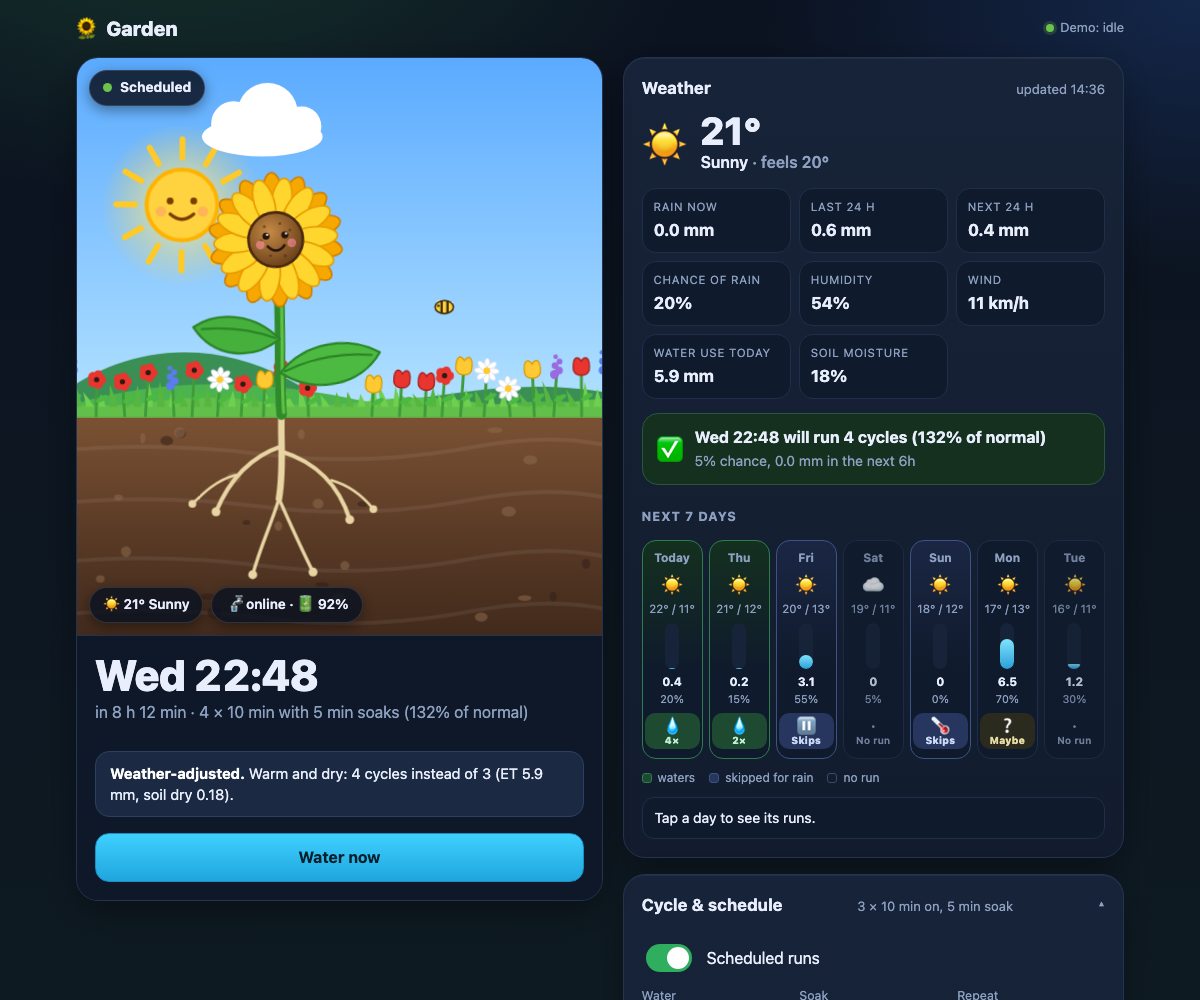
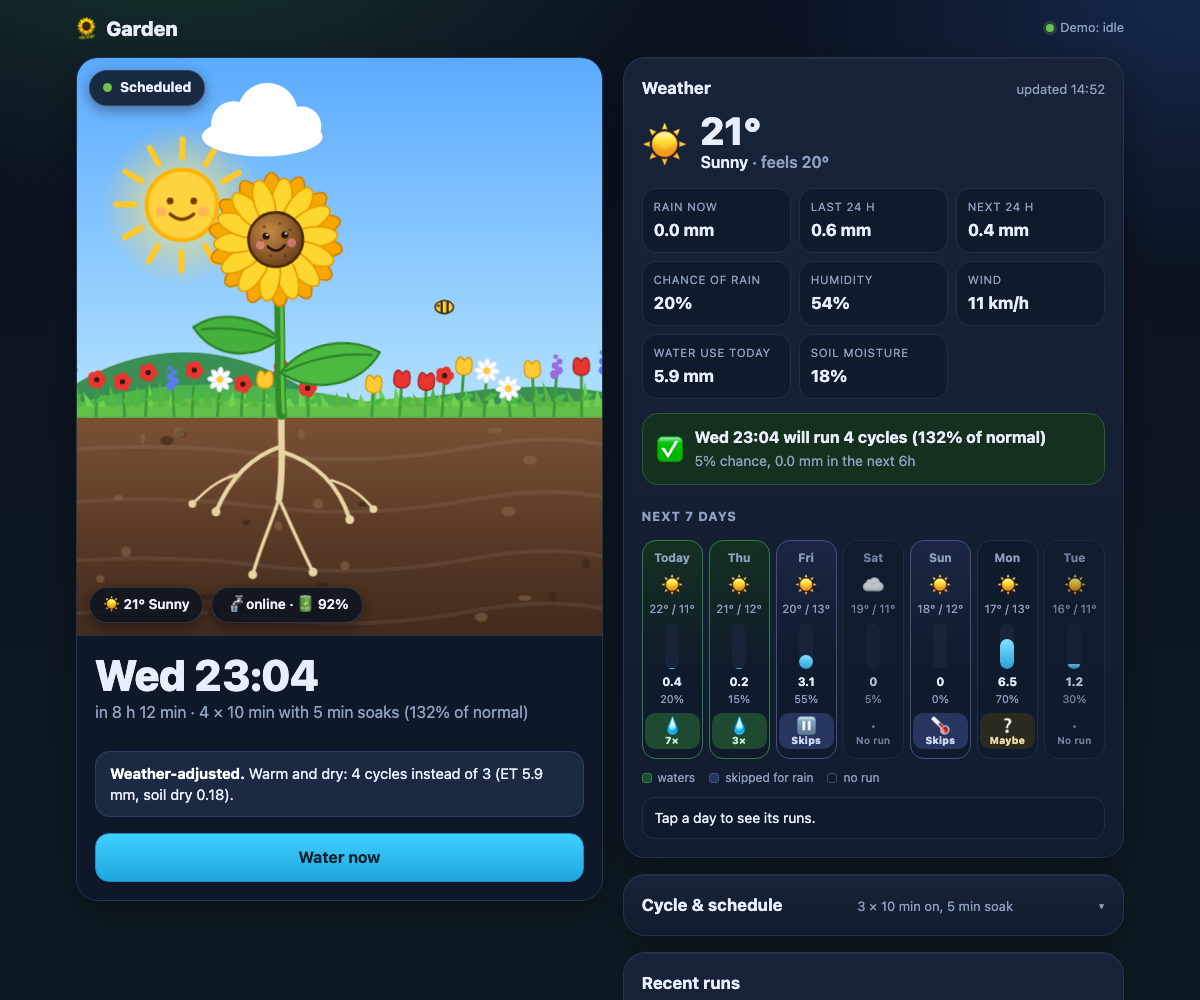
feat(schedule): ✨ start before or after sunset
A start time can now be relative to sunset (before or after) as well as
sunrise, so a day can have a sunrise run and a sunset run. The UI row has
four options. Demo data and screenshots updated.

diff --git a/worker/public/app.js b/worker/public/app.js
@@ -121,7 +121,7 @@ const minutesLabel = (m) => `${Math.round(m * 10) / 10} min`;
 
 function demoData(name) {
   const now = Date.now();
-  const config = { enabled: true, onMinutes: 10, soakMinutes: 5, cycles: 3, schedules: [{ days: [0, 1, 2, 3, 4, 5, 6], at: "dawn", time: "00:00", beforeSunriseMin: 30 }], rain: { enabled: true, probabilityPct: 50, mm: 1, lookaheadHours: 6 },
+  const config = { enabled: true, onMinutes: 10, soakMinutes: 5, cycles: 3, schedules: [{ days: [0, 1, 2, 3, 4, 5, 6], at: "dawn", time: "00:00", beforeSunriseMin: 30 }, { days: [0, 1, 2, 3, 4, 5, 6], at: "dusk", time: "00:00", afterSunsetMin: -30 }], rain: { enabled: true, probabilityPct: 50, mm: 1, lookaheadHours: 6 },
     smart: { enabled: true, referenceEtMm: 4.5, cropFactor: 1, minPercent: 25, maxPercent: 150, soilDryBelow: 0.2, soilWetAbove: 0.35, wind: { enabled: true, maxKmh: 30 }, frost: { enabled: true, belowC: 2 } } };
   const idle = { phase: "idle", cycle: 0, cycles: 0, onSeconds: 0, soakSeconds: 0, phaseStartedAt: 0, phaseEndsAt: 0 };
   const running = (phase, left) => ({ phase, cycle: 2, cycles: 3, onSeconds: 600, soakSeconds: 300, phaseStartedAt: now - ((phase === "watering" ? 600 : 300) - left) * 1000, phaseEndsAt: now + left * 1000 });
@@ -136,8 +136,8 @@ function demoData(name) {
   const dry = "5% chance, 0.0 mm in the next 6h";
   const wet = "rain likely: 78% chance, 4.0 mm in the next 6h";
   const demoRuns = [
-    () => rain ? run(0, "skip", wet) : [{ at: at(0), state: "will-run", reason: dry, cycles: 4, percent: 132, scaling: "Warm and dry: 4 cycles instead of 3 (ET 5.9 mm, soil dry 0.18)." }],
-    () => rain ? run(1, "skip", wet) : [{ at: at(1), state: "will-run", reason: dry, cycles: 2, percent: 62, scaling: "Cool day: 2 cycles instead of 3 (ET 2.8 mm, soil damp 0.27)." }],
+    () => rain ? run(0, "skip", wet) : [{ at: at(0), state: "will-run", reason: dry, cycles: 4, percent: 132, scaling: "Warm and dry: 4 cycles instead of 3 (ET 5.9 mm, soil dry 0.18)." }, { at: at(0) + 11 * 3600000, state: "will-run", reason: dry, cycles: 3, percent: 100, scaling: "Typical (ET 4.5 mm), soil dry (0.20): 100% of normal, 3 of 3 cycles." }],
+    () => rain ? run(1, "skip", wet) : [{ at: at(1), state: "will-run", reason: dry, cycles: 2, percent: 62, scaling: "Cool day: 2 cycles instead of 3 (ET 2.8 mm, soil damp 0.27)." }, { at: at(1) + 11 * 3600000, state: "will-run", reason: dry, cycles: 1, percent: 33, scaling: "Cool day: 1 cycle instead of 3 (ET 2.8 mm, soil damp 0.27)." }],
     () => run(2, "skip", wet),
     () => [],
     () => [{ at: at(4), state: "skip-weather", reason: "Soil is wet (0.38 m³/m³), so no watering is needed. Weather: low (ET 1.9 mm)." }],
@@ -402,22 +402,31 @@ function renderSchedules() {
   schedules.forEach((s, i) => {
     const row = document.createElement("div");
     row.className = "sched";
+    // four ways to say when: a clock time, before sunrise, before sunset, after sunset
+    const kindOf = (e) => (e.at === "dawn" ? "dawn" : e.at === "dusk" ? ((e.afterSunsetMin ?? 0) < 0 ? "dusk-before" : "dusk-after") : "clock");
+    const minutesOf = (e) => (e.at === "dawn" ? e.beforeSunriseMin : Math.abs(e.afterSunsetMin ?? 30)) ?? 30;
+    const setSun = (e, kindName, min) => {
+      delete e.beforeSunriseMin; delete e.afterSunsetMin;
+      if (kindName === "clock") { e.at = "clock"; return; }
+      if (kindName === "dawn") { e.at = "dawn"; e.beforeSunriseMin = min; return; }
+      e.at = "dusk"; e.afterSunsetMin = kindName === "dusk-before" ? -min : min;
+    };
     const kind = document.createElement("select");
-    kind.setAttribute("aria-label", "Start at a time or before sunrise");
+    kind.setAttribute("aria-label", "When to start: a time, or relative to sunrise or sunset");
     kind.className = "kind";
-    kind.append(new Option("At time", "clock"), new Option("Before sunrise", "dawn"));
-    kind.value = s.at ?? "clock";
-    kind.onchange = () => { s.at = kind.value; if (s.at === "dawn") s.beforeSunriseMin ??= 30; renderSchedules(); };
+    kind.append(new Option("At time", "clock"), new Option("Before sunrise", "dawn"), new Option("Before sunset", "dusk-before"), new Option("After sunset", "dusk-after"));
+    kind.value = kindOf(s);
+    kind.onchange = () => { setSun(s, kind.value, minutesOf(s)); renderSchedules(); };
     const time = Object.assign(document.createElement("input"), { type: "time", value: s.time });
     time.setAttribute("aria-label", "Start time");
     time.onchange = () => (s.time = time.value);
     const lead = document.createElement("div");
     lead.className = "num lead";
-    const mins = Object.assign(document.createElement("input"), { type: "number", min: 0, max: 180, inputmode: "numeric", value: s.beforeSunriseMin ?? 30 });
-    mins.setAttribute("aria-label", "Minutes before sunrise");
-    mins.onchange = () => (s.beforeSunriseMin = Number(mins.value));
-    lead.append(mins, Object.assign(document.createElement("em"), { textContent: "min before" }));
-    const when = s.at === "dawn" ? lead : time;
+    const mins = Object.assign(document.createElement("input"), { type: "number", min: 0, max: 180, inputmode: "numeric", value: minutesOf(s) });
+    mins.setAttribute("aria-label", "Minutes from sunrise or sunset");
+    mins.onchange = () => setSun(s, kindOf(s), Number(mins.value));
+    lead.append(mins, Object.assign(document.createElement("em"), { textContent: kindOf(s) === "dusk-after" ? "min after" : "min before" }));
+    const when = s.at === "dawn" || s.at === "dusk" ? lead : time;
     const chips = document.createElement("div");
     chips.className = "chips";
     DAYS.forEach((name, d) => {

diff --git a/worker/src/plan.ts b/worker/src/plan.ts
@@ -4,9 +4,10 @@ import { sunTimes } from "./sun";
 
 export interface ScheduleEntry {
   days: number[]; // 0 = Sunday ... 6 = Saturday
-  at?: "clock" | "dawn"; // missing means clock, so configs saved before dawn starts existed still work
-  time: string; // "HH:MM" in the configured timezone (ignored for dawn)
+  at?: "clock" | "dawn" | "dusk"; // missing means clock, so configs saved before sun-relative starts existed still work
+  time: string; // "HH:MM" in the configured timezone (ignored for dawn and dusk)
   beforeSunriseMin?: number; // for dawn: how long before sunrise to start
+  afterSunsetMin?: number; // for dusk: minutes after sunset to start, negative for before
 }
 
 export interface RainConfig {
@@ -120,9 +121,10 @@ export function validateConfig(input: unknown): Config {
   const schedules = c.schedules;
   if (!Array.isArray(schedules) || schedules.length > 20) throw new Error("schedules must be a list of up to 20 entries");
   for (const s of schedules) {
-    if (s.at !== "clock" && s.at !== "dawn") throw new Error(`bad schedule type: ${s.at}`);
+    if (s.at !== "clock" && s.at !== "dawn" && s.at !== "dusk") throw new Error(`bad schedule type: ${s.at}`);
     if (s.at === "clock" && !/^([01]\d|2[0-3]):[0-5]\d$/.test(s.time)) throw new Error(`bad schedule time: ${s.time}`);
     if (s.at === "dawn") num(s.beforeSunriseMin, "schedule beforeSunriseMin", 0, 180);
+    if (s.at === "dusk") num(s.afterSunsetMin, "schedule afterSunsetMin", -180, 180);
     if (!Array.isArray(s.days) || s.days.some((d) => !Number.isInteger(d) || d < 0 || d > 6)) {
       throw new Error("schedule days must be integers 0-6");
     }
@@ -147,7 +149,7 @@ export function validateConfig(input: unknown): Config {
     onMinutes: num(c.onMinutes, "onMinutes", 0.1, 60),
     soakMinutes: num(c.soakMinutes, "soakMinutes", 0, 240),
     cycles: num(c.cycles, "cycles", 1, 20),
-    schedules: schedules.map((s) => ({ days: [...new Set(s.days)].sort(), at: s.at, time: s.at === "dawn" ? "00:00" : s.time, ...(s.at === "dawn" ? { beforeSunriseMin: s.beforeSunriseMin } : {}) })),
+    schedules: schedules.map((s) => ({ days: [...new Set(s.days)].sort(), at: s.at, time: s.at === "clock" ? s.time : "00:00", ...(s.at === "dawn" ? { beforeSunriseMin: s.beforeSunriseMin } : {}), ...(s.at === "dusk" ? { afterSunsetMin: s.afterSunsetMin } : {}) })),
     rain: {
       enabled: r.enabled !== false,
       probabilityPct: num(r.probabilityPct, "rain.probabilityPct", 0, 100),
@@ -229,13 +231,14 @@ export function localToUtc(y: number, m: number, d: number, hh: number, mm: numb
 
 /** When one schedule entry starts on a local calendar date, or null if it cannot (no sunrise that day). */
 export function entryStart(entry: ScheduleEntry, y: number, m: number, d: number, place: Place): number | null {
-  if (entry.at !== "dawn") {
+  if (entry.at !== "dawn" && entry.at !== "dusk") {
     const [hh, mm] = entry.time.split(":").map(Number);
     return localToUtc(y, m - 1, d, hh, mm, place.timeZone);
   }
   const sun = sunTimes(`${y}-${String(m).padStart(2, "0")}-${String(d).padStart(2, "0")}`, place.latitude, place.longitude);
   if (!sun) return null;
-  return Math.floor((sun.sunrise - (entry.beforeSunriseMin ?? 0) * 60_000) / 60_000) * 60_000;
+  const t = entry.at === "dawn" ? sun.sunrise - (entry.beforeSunriseMin ?? 0) * 60_000 : sun.sunset + (entry.afterSunsetMin ?? 0) * 60_000;
+  return Math.floor(t / 60_000) * 60_000;
 }
 
 /** Returns a unique key like "2026-10-21 06:00" if a schedule entry is due this minute. */

diff --git a/worker/test/plan.test.ts b/worker/test/plan.test.ts
@@ -146,6 +146,39 @@ describe("dawn schedule", () => {
   });
 });
 
+describe("sunset schedule", () => {
+  const sunset = (date: string) => sunTimes(date, place.latitude, place.longitude)!.sunset;
+  const dusk = (min: number) => ({ ...config, schedules: [{ days: [0, 1, 2, 3, 4, 5, 6], at: "dusk" as const, time: "00:00", afterSunsetMin: min }] });
+
+  it("is due exactly the minute it is 45 minutes before sunset", () => {
+    const at = Math.floor((sunset("2026-10-22") - 45 * MIN) / MIN) * MIN;
+    expect(dueSchedule(dusk(-45), at, place)).toMatch(/^2026-10-22 1[78]:\d\d$/);
+    expect(dueSchedule(dusk(-45), at - MIN, place)).toBeNull();
+  });
+
+  it("can start after sunset", () => {
+    const [t] = scheduledRunsOn(dusk(20), "2026-10-22", place);
+    expect(t).toBe(Math.floor((sunset("2026-10-22") + 20 * MIN) / MIN) * MIN);
+  });
+
+  it("gives a sunrise and a sunset run on the same day, earliest first", () => {
+    const both = { ...config, schedules: [
+      { days: [3], at: "dusk" as const, time: "00:00", afterSunsetMin: -30 },
+      { days: [3], at: "dawn" as const, time: "00:00", beforeSunriseMin: 30 },
+    ] };
+    const [first, second] = scheduledRunsOn(both, "2026-10-21", place);
+    expect(first).toBeLessThan(second);
+    expect(second - first).toBeGreaterThan(10 * 3_600_000);
+    expect(nextRunAt(both, Date.UTC(2026, 9, 21, 0, 0), place)).toBe(second); // 11:00 local: the sunrise start has passed, the sunset one has not
+  });
+
+  it("validates the offset and keeps no clock time", () => {
+    expect(() => validateConfig({ ...defaultConfig, schedules: [{ days: [1], at: "dusk", time: "00:00", afterSunsetMin: 300 }] })).toThrow(/afterSunsetMin/);
+    const c = validateConfig({ ...defaultConfig, schedules: [{ days: [1], at: "dusk", time: "ignored", afterSunsetMin: -30 }] });
+    expect(c.schedules[0]).toEqual({ days: [1], at: "dusk", time: "00:00", afterSunsetMin: -30 });
+  });
+});
+
 describe("saved configs and the new settings", () => {
   it("fills in the weather settings for a config saved before they existed", () => {
     const old = { enabled: true, onMinutes: 10, soakMinutes: 5, cycles: 3, schedules: [{ days: [1], time: "06:00" }], rain: { enabled: true, probabilityPct: 50, mm: 1, lookaheadHours: 6 } };

diff --git a/README.md b/README.md
@@ -135,8 +135,10 @@ To preview every scene without a backend, serve `worker/public` and open `/?demo
   probability threshold, or the forecast total reaches the mm threshold. If the forecast can't be fetched it waters
   anyway and says so in the notification. Starting from the UI or by voice always runs.
 - Weather smarts change the number of cycles for scheduled runs (see below).
-- A start time can be a clock time or "N minutes before sunrise" (worked out from your latitude and longitude, so it
-  follows the seasons).
+- A start time can be a clock time, "N minutes before sunrise", "N minutes before sunset" or "N minutes after sunset".
+  Sunrise and sunset are worked out from your latitude and longitude, so they follow the seasons. You can have as many
+  start times as you like, for example one before sunrise and one before sunset. Each run is scaled by the weather on
+  its own, so two runs on a hot day both get the extra cycles.
 - Every change of the valve is confirmed by reading its state back. If Tuya can't be reached when a phase changes, it
   retries twice (30s apart), then aborts the run, tries to close the valve and sends a high-priority ntfy.
 - Using the Smart Life app while a run is going is safe for the valve (its own countdown still applies), but the
